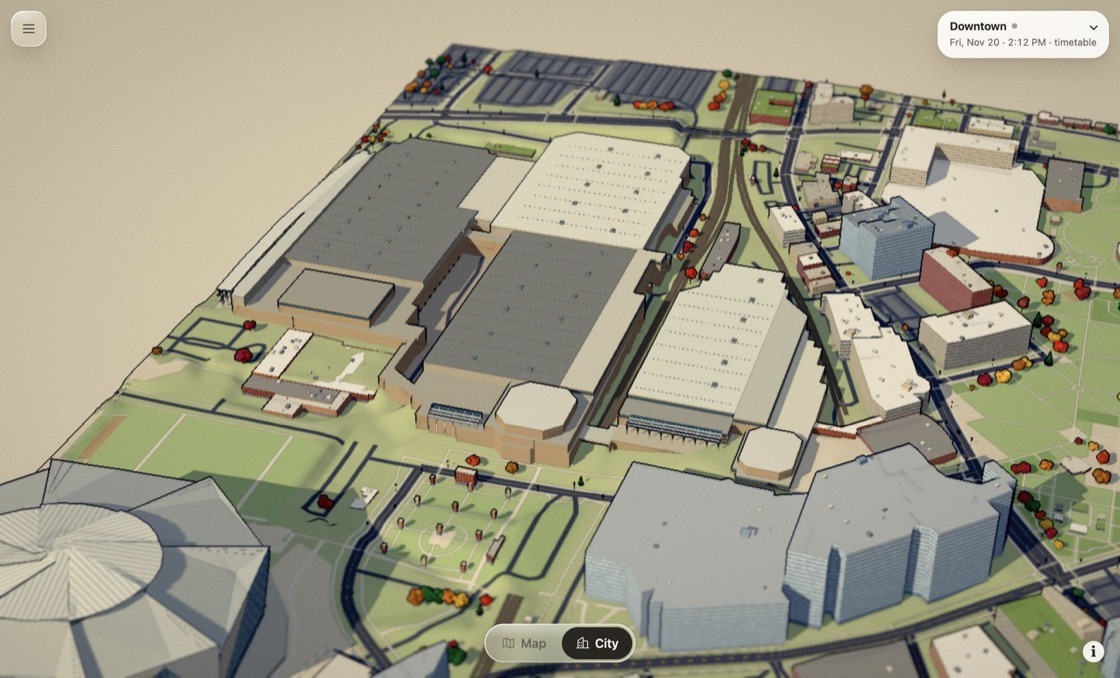
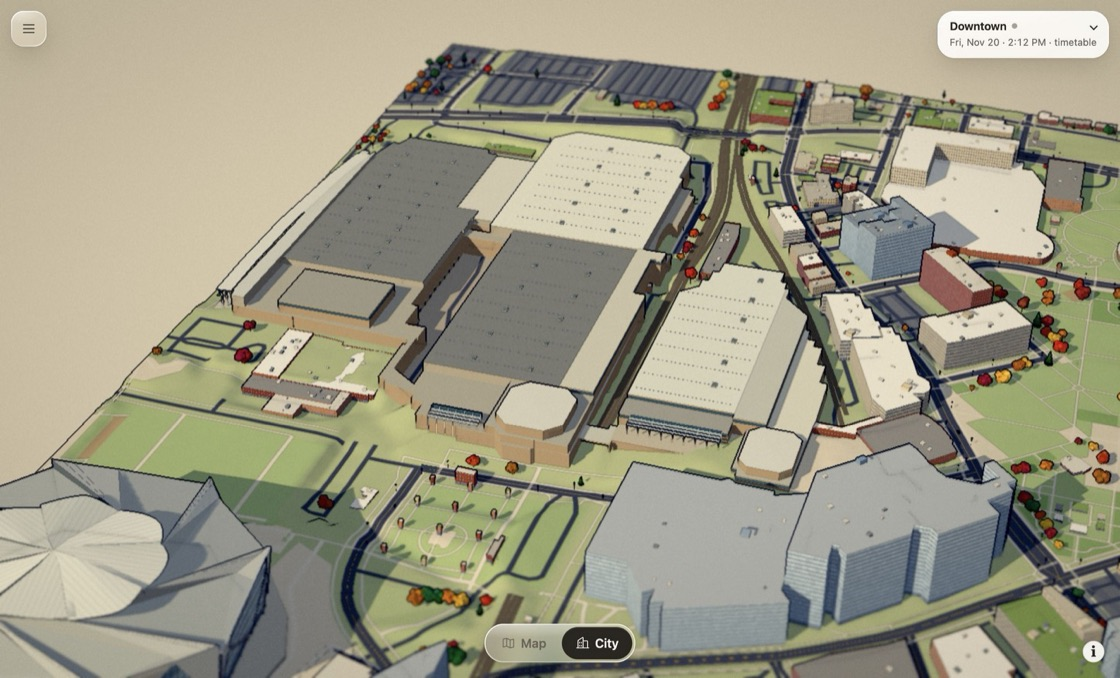
Refresh the daylight review with the refined stadium

Changed region(s): [[0.0, 0.6814, 0.25, 1.0], [0.3125, 0.7434, 0.3438, 0.7743], [0.0, 0.9912, 0.0312, 1.0]]

diff --git a/docs/build-log.md b/docs/build-log.md
@@ -1524,4 +1524,4 @@ Sam also chose the public name **Sim Atlanta**. The city menu, About page and br
 
 ### 2026-11-22 — Thirteen exhibit spaces under one map outline
 
-The Congress Center appears in the bake as one 597 m footprint with one height. The floor plans put twelve numbered exhibit halls and the BC connector inside it, all within our board. From the tracks, the easiest way to read the campus is through its gaps. The railway passes between A and B and under their southern lobby; a 10,827 m² loading court runs between B and C. The new roof tiers follow the two original courtyard holes. Building C's glass gallery clears the west edge of the miniature by about eleven metres at its mapped frontage. [Across the tracks before](log/ui/congress-center/tracks-before.jpg) · [After](log/ui/congress-center/tracks-after.jpg) · [Daylight cameras and sources](georgia-world-congress-center.md)
+The Congress Center appears in the bake as one 597 m footprint with one height. The floor plans put twelve numbered exhibit halls and the BC connector inside it, all within our board. From the tracks, the easiest way to read the campus is through its gaps. The railway passes between A and B and under their southern lobby; a 10,827 m² loading court runs between B and C. The new roof tiers follow the two original courtyard holes. Building C’s mapped footprint clears the west edge of the miniature by 10.9 m. [Across the tracks before](log/ui/congress-center/tracks-before.jpg) · [After](log/ui/congress-center/tracks-after.jpg) · [Daylight cameras and sources](georgia-world-congress-center.md)

diff --git a/docs/georgia-world-congress-center.md b/docs/georgia-world-congress-center.md
@@ -7,7 +7,7 @@ All **12 numbered exhibit halls and the connecting BC exhibit hall** fit on the 
 | Across the tracks | [Before](log/ui/congress-center/tracks-before.jpg) | [After](log/ui/congress-center/tracks-after.jpg) |
 | Stadium district | [Before](log/ui/congress-center/district-before.jpg) | [After](log/ui/congress-center/district-after.jpg) |
 
-After deployment, open the paused Map link and select **City**. The map hands City its position, scale and bearing. [Daylight review link](https://atlanta.solomon.io/?view=map&q=high&t=2026-11-20T14:12:45-05:00&speed=0#16.462/33.759818/-84.398587/-18) · [Same view in the production build](log/ui/congress-center/review-daylight.jpg) · [Southern entrances](log/ui/congress-center/plaza-after.jpg)
+The matched pairs use the stadium from #48. The daylight review frame includes the revised stadium from #49. After deployment, open the paused Map link and select **City**. The map hands City its position, scale and bearing. [Daylight review link](https://atlanta.solomon.io/?view=map&q=high&t=2026-11-20T14:12:45-05:00&speed=0#16.462/33.759818/-84.398587/-18) · [Same view in the production build](log/ui/congress-center/review-daylight.jpg) · [Southern entrances](log/ui/congress-center/plaza-after.jpg)
 
 ## Reading the campus
 
